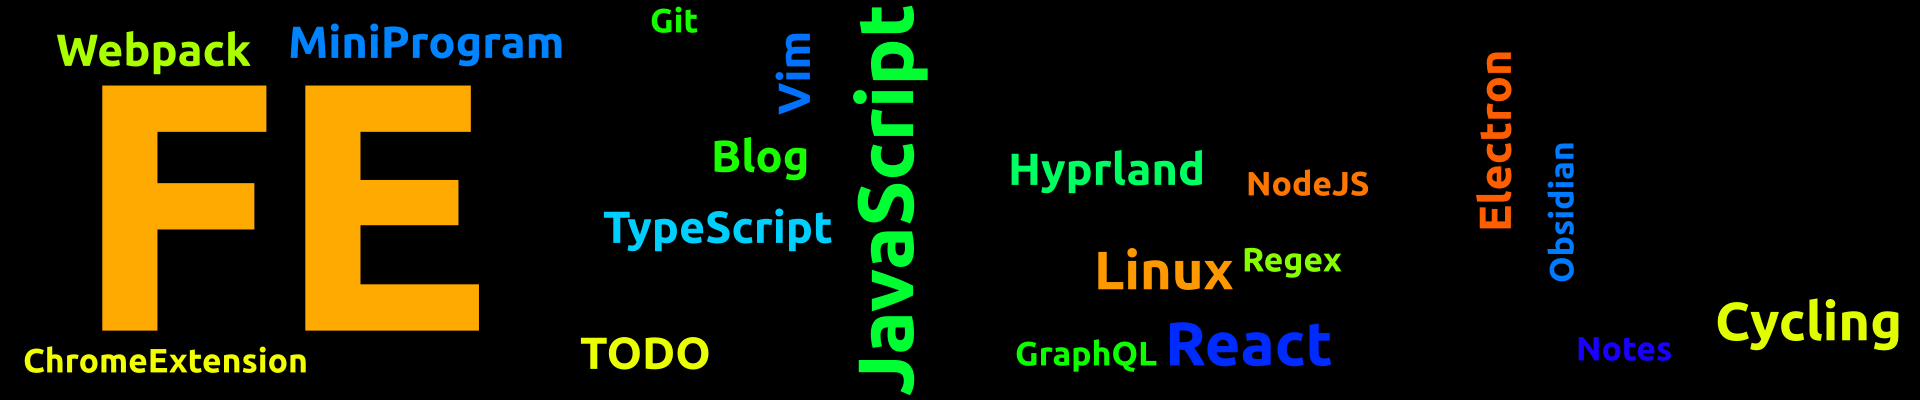
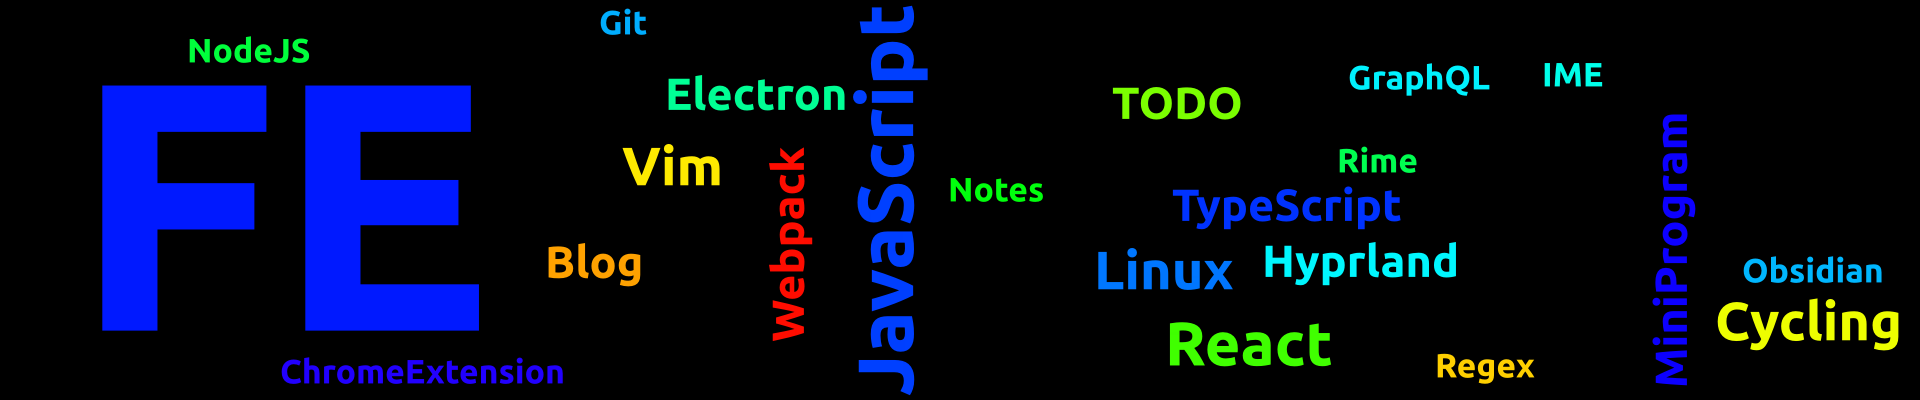
Pull-Request [notes-5-13-2024] from Obsidian (#86)
* PUSH NOTE : 完善 Rime Vim Mode：支持 Linux & 自动切换回中文模式.md

* Update Content from PR Github Action

diff --git a/docs/85/完善 Rime Vim Mode：支持 Linux & 自动切换回中文模式.md b/docs/85/完善 Rime Vim Mode：支持 Linux & 自动切换回中文模式.md
@@ -1,0 +1,105 @@
+---  
+tags:  
+  - Vim  
+  - Rime  
+  - IME  
+created: 2024-05-13
+share: "true"  
+issue: 85
+title: 完善 Rime Vim Mode：支持 Linux & 自动切换回中文模式
+description: 完善 Rime Vim Mode：支持 Linux & 自动切换回中文模式
+permalink: "85"
+---  
+  
+## TL;DR  
+  
+借助 `lua_processor`，自行实现 `vim_mode` 的中英文切换逻辑，使其支持：  
+- Linux 系统  
+- 重新进入 `insert mode` 时自动切换回中文模式（如果离开时是处于中文模式的话）  
+  
+> 这并不是一个完美的解决方案，可能达不到 100% 的使用效果，但是在普通的情况下已经足以使用  
+  
+## 使用方法  
+  
+可以参考此 [feat: vim\_mode](https://github.com/lei4519/rime-ice/commit/6a5db99263f5e2fef9fcddc628cbe1a639bdf18d)I  
+  
+### 引入 `vim_mode.lua` 文件  
+  
+首先将 [vim_mode.lua](https://github.com/lei4519/rime-ice/blob/main/lua/vim_mode.lua) 文件放入自己的 `lua` 文件夹中，并在 `rime.lua` 中进行导出  
+  
+```lua  
+vim_mode = require("vim_mode")  
+```  
+  
+### 加入 `lua_processor`  
+  
+在自己的中文输入方案中，加入 `lua_processor`  
+  
+比如我使用的是小鹤双拼，所以我修改 `double_pinyin_flypy.custom.yaml`，加入如下逻辑  
+  
+```yaml  
+patch:  
+  # 加入 lua_processor  
+  engine/processors/@before 0: lua_processor@vim_mode  
+  # 默认关闭 vmode，只在对应的 app 中打开  
+  switches/+:  
+    - name: vmode  
+      reset: 0  
+```  
+  
+### 配置 `app_options`  
+  
+在对应平台的 `.custom.yaml` 中配置在什么应用下启用 `vmode`  
+  
+比如 macOS 的 `squirrel.custom.yaml`  
+  
+```yaml  
+patch:  
+  app_options:  
+    org.alacritty:  
+      ascii_mode: true  
+      vmode: true  
+    net.kovidgoyal.kitty:  
+      ascii_mode: true  
+      vmode: true  
+```  
+  
+## 实现思路与原因  
+  
+### 起因  
+  
+我觉得 `vim_mode` 的确是一个非常好的功能，尤其是我这种既要用 `Obsidian`，又要用 `Terminal`，偶尔还要用 `VSCode` 的人  
+  
+虽然这些软件中都有类似 `im-select` 之类的切换插件，但是每个软件中都需要单独安装，且不同的操作系统，配置还可能不一样（比如我自己就在 macOS 和 Linux 下频繁切换）  
+  
+所以如果能有一个 IM 级别的 `vim_mode` 切换解决方案，那真是再好不过了  
+  
+可是目前的 `vim_mode` 有两个问题：  
+1. 由前端实现，Linux 中不支持此功能  
+2. 在中文模式下，切换到 `normal mode`，再进入 `insert mode`，会保持 `ascii mode`，而不会自动切换会中文模式  
+	- 像 `im-select` 就会自动切换回中文模式  
+  
+### 思路  
+  
+搜索之后发现并没有一个现成的解决方案，但是却有大佬写过类似的逻辑，比如  
+- [如何在Windows/Linux下的Rime使用Vim模式 - 知乎](https://zhuanlan.zhihu.com/p/654489636)  
+- [能否获取当前在什么应用下嘛 · Issue #294 · hchunhui/librime-lua · GitHub](https://github.com/hchunhui/librime-lua/issues/294)  
+  
+稍微组合一下，就有了本文的解决方案  
+  
+---  
+  
+通过 `switches` 配置 `vmode`，再通过 `app_options` 配置在相应应用下打开 `vmode` ，即可实现原生的 `vim_mode` 在指定应用下开启的效果  
+  
+利用 `lua_processor` 对按键输入进行处理，如果当前应用处于 `vmode` 下，就进行相关的逻辑处理  
+  
+> 如 [有考虑加入win端和macos端的vim mode · Issue #84 · fcitx/fcitx5-rime · GitHub](https://github.com/fcitx/fcitx5-rime/issues/84) 中所说，rime 是无法感知应用处于什么模式的（vim）    
+> 同样我们也无法知道应用处于什么模式，只能是根据 vim 的常规操作逻辑去大致的处理一下  
+  
+思路如下：  
+  
+在开启了 `vmode` 的应用中  
+- 如果按下了 `esc` 键，就认为要切换到 `normal mode`  
+	- 如果此时处于中文模式，就自动切换到英文模式，并记录中文状态  
+- 如果处于 `normal mode`，并且按下了 `i/a/o/c` 等会进入插入模式的按键  
+	- 如果之前是中文状态，就自动切换回中文状态  

diff --git a/README.md b/README.md
@@ -1,11 +1,12 @@
 
 <p align='center'>
     <img src="https://badgen.net/github/issues/lei4519/blog"/>
-    <img src="https://badgen.net/badge/last-commit/2024-05-13 04:50:21"/>
+    <img src="https://badgen.net/badge/last-commit/2024-05-13 07:12:19"/>
 </p>
 
 <img src="assets/wordcloud.png" title="词云" alt="词云">
 
+- [完善 Rime Vim Mode：支持 Linux & 自动切换回中文模式](https://github.com/lei4519/blog/issues/85) -- 2024-05-13
 - [Arch Linux 系统配置篇](https://github.com/lei4519/blog/issues/75) -- 2024-04-23
 - [乳酸穿梭能力](https://github.com/lei4519/blog/issues/72) -- 2024-04-21
 - [Arch Linux 系统安装篇](https://github.com/lei4519/blog/issues/74) -- 2024-04-16

diff --git a/index.md b/index.md
@@ -1,11 +1,12 @@
 
 <p align='center'>
     <img src="https://badgen.net/github/issues/lei4519/blog"/>
-    <img src="https://badgen.net/badge/last-commit/2024-05-13 04:50:21"/>
+    <img src="https://badgen.net/badge/last-commit/2024-05-13 07:12:19"/>
 </p>
 
 <img src="assets/wordcloud.png" title="词云" alt="词云">
 
+- [完善 Rime Vim Mode：支持 Linux & 自动切换回中文模式](./85) -- 2024-05-13
 - [Arch Linux 系统配置篇](./75) -- 2024-04-23
 - [乳酸穿梭能力](./72) -- 2024-04-21
 - [Arch Linux 系统安装篇](./74) -- 2024-04-16
